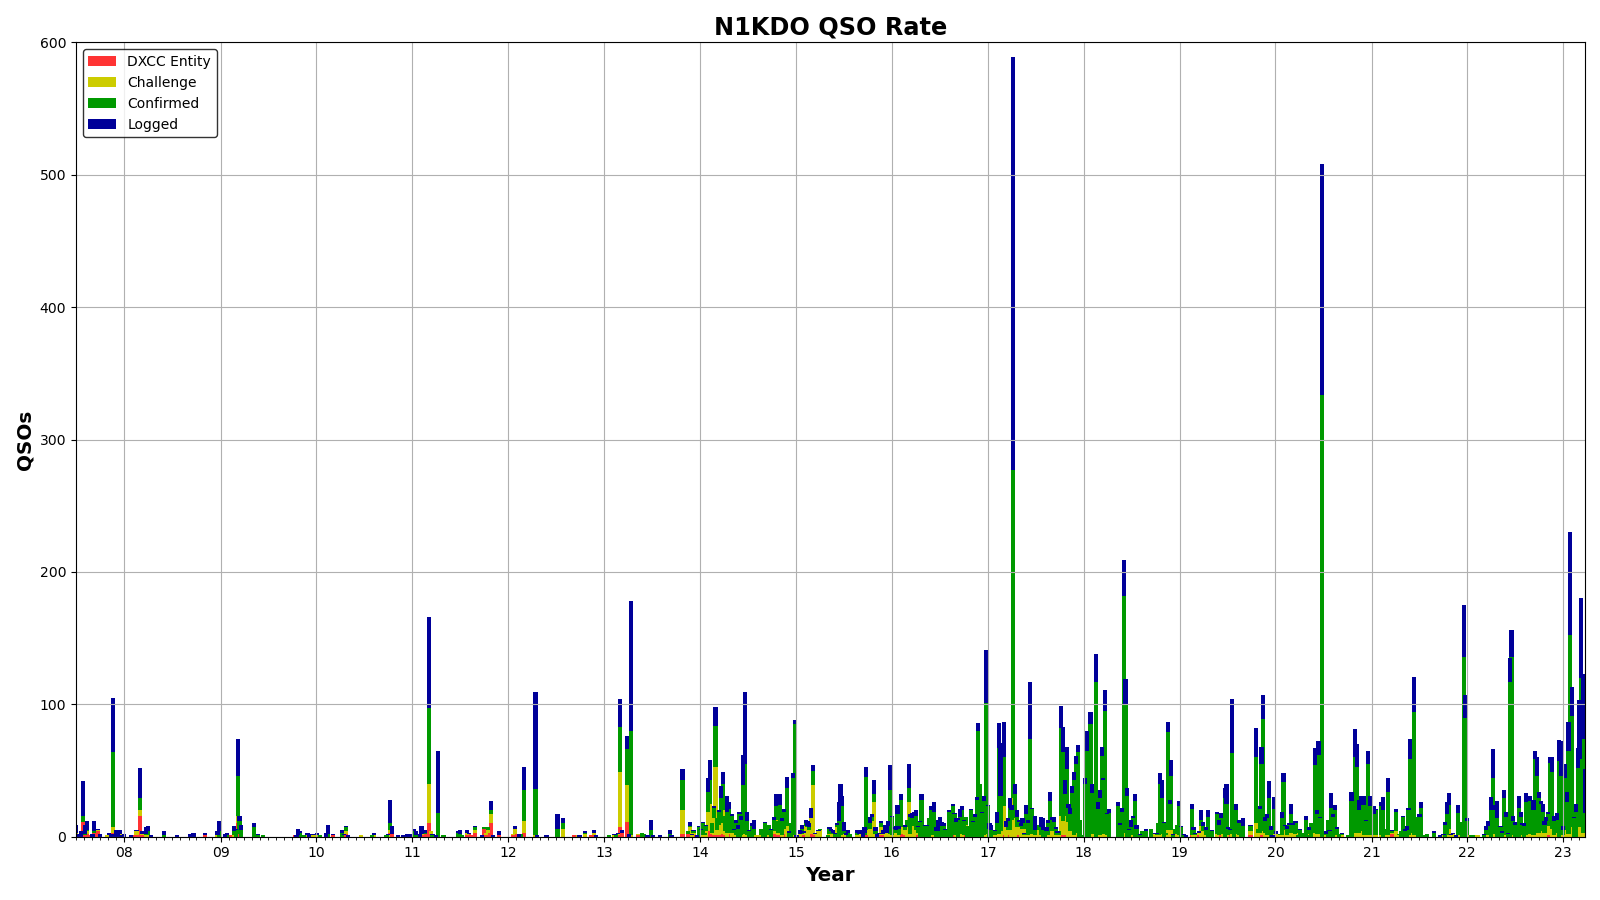
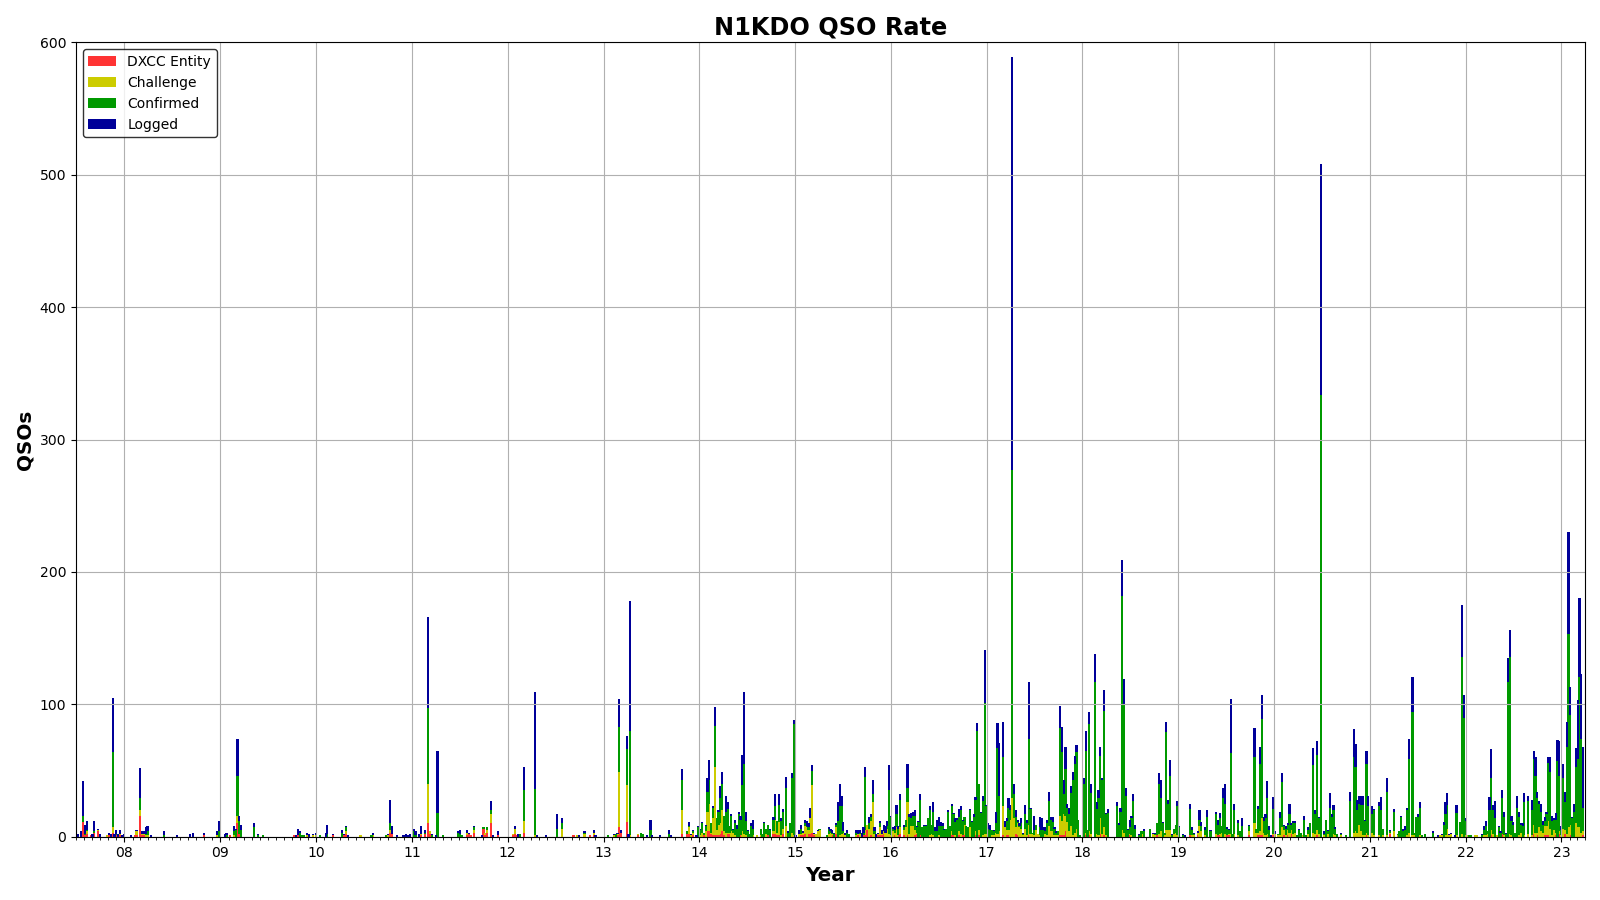
fix up charts a bit

diff --git a/qso_charts.py b/qso_charts.py
@@ -304,9 +304,11 @@ def plot_qsos_rate(bin_data, title, filename=None, start_date=None, end_date=Non
     offsets = np.zeros((len(dates)), np.int32)
     colors = ['#ff3333', '#cccc00', '#009900', '#000099']
     labels = ['Logged', 'Confirmed', 'Challenge', 'DXCC Entity']
-    width = bin_data.num_days / 365
+
+    width = bin_data.num_bins / 100
     logging.debug(f'width {width}')
     logging.debug(f'num_bins {bin_data.num_bins}')
+
     d = np.array(data[0])
     ax.bar(dates, d, width, bottom=offsets, color=colors[0], label=labels[3])
     offsets += d
@@ -378,7 +380,6 @@ def plot_qsos_band_rate(bin_data, title, filename=None, start_date=None, end_dat
                 sum += band_count
                 data[i].append(band_count)
 
-    # dates, data = make_bins(dates, data)
     maxy = 0
     for i in range(0, len(data[0])):
         total = 0
@@ -386,7 +387,6 @@ def plot_qsos_band_rate(bin_data, title, filename=None, start_date=None, end_dat
             total += data[j][i]
         if total > maxy:
             maxy = total
-    delta = (dates[-1] - dates[0]).days
 
     fig = plt.Figure(figsize=(WIDTH_INCHES, HEIGHT_INCHES), dpi=100, tight_layout=True)
     ax = fig.add_subplot(111, facecolor=BG)
@@ -400,12 +400,15 @@ def plot_qsos_band_rate(bin_data, title, filename=None, start_date=None, end_dat
     ax.set_xlim(start_date, end_date)
     ax.set_ylim(0, auto_scale(maxy))
 
-    width = delta / 365
+    width = bin_data.num_bins / 100
+    logging.debug(f'num_bins={bin_data.num_bins}')
+    logging.debug(f'width={width}')
 
     offset = np.zeros((len(dates)), dtype=np.int32)
     for i in range(0, len(challenge_bands)):
         ta = np.array(data[i])
-        ax.bar(dates, ta, width, bottom=offset, color=colors[i], label=challenge_bands[i])
+        ax.bar(dates, ta, width=width, bottom=offset, color=colors[i], label=challenge_bands[i])
+        # ax.bar(dates, ta, bottom=offset, color=colors[i], label=challenge_bands[i])
         offset += ta
 
     ax.grid(True)
@@ -450,9 +453,6 @@ def plot_qsos_mode_rate(bin_data, title, filename=None, start_date=None, end_dat
     """
     logging.debug('plot_qsos_mode_rate(...,%s, %s)' % (title, filename))
 
-    #challenge_bands = ['160M', '80M', '40M', '30M', '20M', '17M', '15M', '12M', '10M', '6M']
-    #colors = ['violet', 'g', 'b', 'c', 'r', '#ffff00', '#ff6600', '#00ff00', '#663300', '#00ffff']
-    # currently there are 4 modes defined in adif.MODES
     colors = ['r', 'g', 'c', 'b']
     data = [[], [], [], []]
     dates = []
@@ -475,7 +475,6 @@ def plot_qsos_mode_rate(bin_data, title, filename=None, start_date=None, end_dat
             total += data[j][i]
         if total > maxy:
             maxy = total
-    delta = (dates[-1] - dates[0]).days
 
     fig = plt.Figure(figsize=(WIDTH_INCHES, HEIGHT_INCHES), dpi=100, tight_layout=True)
     ax = fig.add_subplot(111, facecolor=BG)
@@ -489,7 +488,9 @@ def plot_qsos_mode_rate(bin_data, title, filename=None, start_date=None, end_dat
     ax.set_xlim(start_date, end_date)
     ax.set_ylim(0, auto_scale(maxy))
 
-    width = delta / 365
+    width = bin_data.num_bins / 100
+    logging.debug(f'num_bins={bin_data.num_bins}')
+    logging.debug(f'width={width}')
 
     offset = np.zeros((len(dates)), dtype=np.int32)
     for i in range(0, len(adif.MODES)):
@@ -557,7 +558,6 @@ def plot_challenge_bands_by_date(bin_data, title, filename=None, start_date=None
                 biggest = totals[i]
             data[i + 1].append(totals[i])
 
-    # {'pad': 0.10}
     fig = plt.Figure(figsize=(WIDTH_INCHES, HEIGHT_INCHES), dpi=100, tight_layout=True)
 
     ax = fig.add_subplot(111, facecolor=BG)

diff --git a/adif_log_analyzer.py b/adif_log_analyzer.py
@@ -43,7 +43,7 @@ import qso_charts
 __author__ = 'Jeffrey B. Otterson, N1KDO'
 __copyright__ = 'Copyright 2017 - 2023 Jeffrey B. Otterson'
 __license__ = 'Simplified BSD'
-__version__ = '0.08'
+__version__ = '0.10.0'
 
 logging.basicConfig(format='%(asctime)s.%(msecs)03d %(levelname)-8s %(message)s', datefmt='%Y-%m-%d %H:%M:%S',
                     level=logging.INFO)
